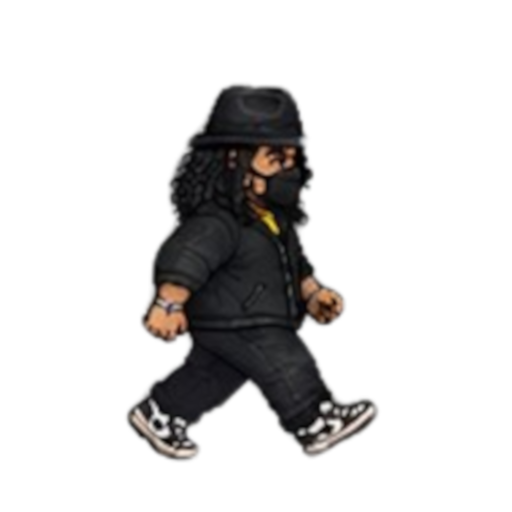
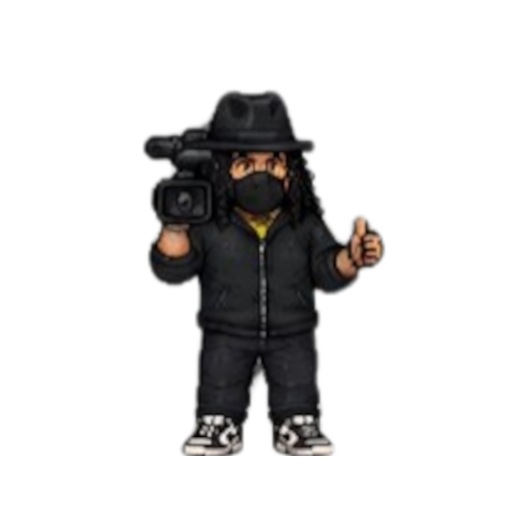
Update campaign 3/9

Changed region(s): [[0.25, 0.1562, 0.75, 0.9062], [0.4375, 0.625, 0.4688, 0.6562]]

diff --git a/PolitecnicoOpenWorld/app/src/main/java/ovh/gabrielhuav/pow/domain/models/ai/CampaignEscortPolice.kt b/PolitecnicoOpenWorld/app/src/main/java/ovh/gabrielhuav/pow/domain/models/ai/CampaignEscortPolice.kt
@@ -1,0 +1,98 @@
+package ovh.gabrielhuav.pow.domain.models.ai
+
+import org.osmdroid.util.GeoPoint
+import ovh.gabrielhuav.pow.domain.models.Npc
+import ovh.gabrielhuav.pow.domain.models.NpcType
+import java.util.concurrent.ConcurrentHashMap
+import kotlin.math.atan2
+import kotlin.math.cos
+import kotlin.math.sin
+import kotlin.math.sqrt
+
+/**
+ * POLICÍA DE LA CAMPAÑA (Modo Historia · Misión 1, escolta a la ESCOM).
+ *
+ * Kotlin puro (como [PoliceManager] y [PrankedyManager]). Es una clase **independiente** del
+ * sistema de nivel de búsqueda del MUNDO LIBRE ([PoliceManager] / `runPoliceTick`) para que sus
+ * comportamientos NO choquen: aquí no hay estrellas dinámicas, ni patrullas, ni disparos, ni
+ * carjack. Son **2 policías a PIE** que **SIGUEN al jugador a una distancia considerable y
+ * DESPACIO** (escolta narrativa). No atacan; solo acompañan/persiguen a pie.
+ *
+ * Todo su movimiento se ajusta (snap) a la calle vía el lambda `snap` que pasa el ViewModel,
+ * igual que el resto de entidades, así no atraviesan edificios.
+ */
+class CampaignEscortPolice {
+
+    companion object {
+        const val COP_COUNT = 2
+        const val SPAWN_BEHIND = 0.0006     // ~65 m: aparecen DETRÁS del jugador
+        const val FOLLOW_DISTANCE = 0.00045 // ~50 m: distancia que MANTIENEN (no se acercan más)
+        const val RESUME_BAND = 0.00012     // ~13 m de histéresis: evita el tembleque en el borde
+        const val COP_SPEED = 0.0000020     // por tick: LENTOS (no te alcanzan a pie)
+    }
+
+    // IDs FIJOS → como mucho 2 unidades; nunca se multiplican.
+    private val units = ConcurrentHashMap<String, Npc>()
+
+    fun activeUnits(): List<Npc> = units.values.toList()
+    fun isActive(): Boolean = units.isNotEmpty()
+    fun clear() { units.clear() }
+
+    /** Crea los 2 policías DETRÁS del jugador (en abanico), sobre la calle si hay `snap`. */
+    fun spawn(playerLat: Double, playerLon: Double, snap: ((GeoPoint) -> GeoPoint)? = null) {
+        units.clear()
+        for (i in 0 until COP_COUNT) {
+            // Detrás del jugador (dirección PI), abierto en abanico para que no se solapen.
+            val ang = Math.PI + (if (i == 0) -0.30 else 0.30)
+            val raw = GeoPoint(
+                playerLat + sin(ang) * SPAWN_BEHIND,
+                playerLon + cos(ang) * SPAWN_BEHIND
+            )
+            val placed = snap?.invoke(raw) ?: raw
+            val id = "CAMPAIGN_COP_$i"
+            units[id] = Npc(
+                id = id,
+                type = NpcType.POLICE_COP,
+                location = placed,
+                speed = COP_SPEED,
+                isRemote = false,
+                isMoving = true,
+                policeDisembarked = true,   // ya está "a pie" (no pertenece a ninguna patrulla)
+                policeCanShoot = false       // NUNCA dispara: es escolta narrativa
+            )
+        }
+    }
+
+    /**
+     * Un ciclo de seguimiento. Cada policía:
+     *  - si está MÁS LEJOS que [FOLLOW_DISTANCE]+banda → avanza DESPACIO hacia el jugador (snap a calle);
+     *  - si ya está dentro de la distancia → se queda quieto (MANTIENE la distancia considerable).
+     */
+    fun tick(playerLat: Double, playerLon: Double, snap: ((GeoPoint) -> GeoPoint)? = null) {
+        for (u in units.values.toList()) {
+            val d = dist(u.location.latitude, u.location.longitude, playerLat, playerLon)
+            if (d > FOLLOW_DISTANCE + RESUME_BAND) {
+                val a = atan2(playerLat - u.location.latitude, playerLon - u.location.longitude)
+                val raw = GeoPoint(
+                    u.location.latitude + sin(a) * COP_SPEED,
+                    u.location.longitude + cos(a) * COP_SPEED
+                )
+                val placed = snap?.invoke(raw) ?: raw
+                val mLat = placed.latitude - u.location.latitude
+                val mLon = placed.longitude - u.location.longitude
+                val moved = mLat * mLat + mLon * mLon > 1e-14
+                val rot = if (moved) (-Math.toDegrees(atan2(mLat, mLon)).toFloat() + 360f) % 360f
+                          else (-Math.toDegrees(a).toFloat() + 360f) % 360f
+                val facing = if (moved) mLon >= 0 else cos(a) >= 0
+                units[u.id] = u.copy(location = placed, rotationAngle = rot, facingRight = facing, isMoving = true)
+            } else if (u.isMoving) {
+                units[u.id] = u.copy(isMoving = false)
+            }
+        }
+    }
+
+    private fun dist(lat1: Double, lon1: Double, lat2: Double, lon2: Double): Double {
+        val dLat = lat1 - lat2; val dLon = lon1 - lon2
+        return sqrt(dLat * dLat + dLon * dLon)
+    }
+}

diff --git a/PolitecnicoOpenWorld/app/src/main/java/ovh/gabrielhuav/pow/features/map_exterior/viewmodel/WorldMapCampaignPolice.kt b/PolitecnicoOpenWorld/app/src/main/java/ovh/gabrielhuav/pow/features/map_exterior/viewmodel/WorldMapCampaignPolice.kt
@@ -1,0 +1,56 @@
+package ovh.gabrielhuav.pow.features.map_exterior.viewmodel
+
+import kotlinx.coroutines.flow.update
+import org.osmdroid.util.GeoPoint
+import ovh.gabrielhuav.pow.domain.models.MissionCatalog
+
+// ─────────────────────────────────────────────────────────────────────────────
+// MODO HISTORIA · POLICÍA DE LA MISIÓN 1 (ESCOLTA A LA ESCOM)
+//
+// Lógica SEPARADA del sistema de búsqueda del MUNDO LIBRE (PoliceManager / WorldMapWanted.kt)
+// para que los comportamientos de la campaña NO choquen con los del mundo libre. Aquí solo hay
+// 2 policías A PIE que SIGUEN al jugador a una distancia considerable y despacio, con 1★ de HUD.
+// El estado (campaignEscortPolice, campaignPoliceActivated) vive en el ViewModel.
+// ─────────────────────────────────────────────────────────────────────────────
+
+// ¿Estamos en la misión de escolta (Misión 1) y aún sin cumplir? Solo entonces aparece esta policía.
+internal fun WorldMapViewModel.isCampaignEscortActive(): Boolean {
+    if (!inCampaign) return false
+    val obj = _uiState.value.currentObjective ?: return false
+    return obj.id == MissionCatalog.ESCOLTAR_PRANKEDY.id && !_uiState.value.objectiveDone
+}
+
+// Tick de la policía de la campaña (lo llama el game loop SOLO si isCampaignEscortActive()).
+// Spawnea 2 policías detrás del jugador una vez, fija 1★ y los hace seguir a pie, despacio.
+internal fun WorldMapViewModel.runCampaignEscortTick(playerLoc: GeoPoint) {
+    // Snap a calle (salvo en zona libre del campus: ESCOM/ENCB), igual que el resto de entidades.
+    val snap: (GeoPoint) -> GeoPoint = { p ->
+        val freeZone = isFreeMovementZone(playerLoc.latitude, playerLoc.longitude)
+        if (!freeZone && _uiState.value.isRoadNetworkReady) getNearestPointOnNetwork(p) else p
+    }
+
+    if (!campaignPoliceActivated) {
+        campaignPoliceActivated = true
+        campaignEscortPolice.spawn(playerLoc.latitude, playerLoc.longitude, snap)
+    }
+
+    campaignEscortPolice.tick(playerLoc.latitude, playerLoc.longitude, snap)
+
+    // 1 ESTRELLA mientras dura la escolta (solo indicador; NO invoca al sistema de búsqueda real,
+    // que está desactivado durante la misión —el game loop no llama a runPoliceTick aquí—).
+    if (_uiState.value.wantedLevel != 1) _uiState.update { it.copy(wantedLevel = 1) }
+
+    updateNpcsState()
+}
+
+// Limpia la policía de la campaña (misión cumplida o al salir de la campaña). Idempotente.
+internal fun WorldMapViewModel.clearCampaignEscort() {
+    val wasActive = campaignEscortPolice.isActive()
+    campaignPoliceActivated = false
+    if (wasActive) {
+        campaignEscortPolice.clear()
+        // Quita la estrella de la escolta (no había nivel de búsqueda real que conservar).
+        _uiState.update { it.copy(wantedLevel = 0) }
+        updateNpcsState()
+    }
+}

diff --git a/PolitecnicoOpenWorld/app/src/main/java/ovh/gabrielhuav/pow/MainActivity.kt b/PolitecnicoOpenWorld/app/src/main/java/ovh/gabrielhuav/pow/MainActivity.kt
@@ -222,6 +222,10 @@ class MainActivity : ComponentActivity() {
                                     // así que NO se auto-guarda al salir.
                                     worldMapViewModel.inCampaign = false
                                     worldMapViewModel.currentInteriorRoomId = null
+                                    // La música es exclusiva de la misión: en MUNDO LIBRE no debe sonar.
+                                    ovh.gabrielhuav.pow.features.audio.SoundManager.getInstance(this@MainActivity).apply {
+                                        stopInvestigarMusic(); stopLugarSeguroMusic(); stopMainMusic()
+                                    }
                                     if (isMultiplayer && !playerName.isNullOrBlank()) {
                                         // Usando la variable de entorno de Gradle (BuildConfig)
                                         worldMapViewModel.connectToMultiplayer(BuildConfig.MULTIPLAYER_SERVER_URL, playerName)
@@ -254,13 +258,27 @@ class MainActivity : ComponentActivity() {
                             // partida, restaura el estado completo (posición/vida/buscado/vehículo/
                             // skin/NPCs/objetivo) y entra al mundo.
                             var showLoadDialog by remember { mutableStateOf(false) }
+                            // COMENZAR: antes de la intro se elige el SLOT MANUAL donde quedará la
+                            // partida nueva (los 2 slots de auto-guardado salen deshabilitados).
+                            var newGameSchool by remember { mutableStateOf<ovh.gabrielhuav.pow.domain.models.CampaignSchool?>(null) }
                             StoryModeScreen(
-                                onStartCampaign = { school ->
-                                    navController.navigate("story_intro/${school.id}")
-                                },
+                                onStartCampaign = { school -> newGameSchool = school },
                                 onLoadCampaign = { showLoadDialog = true },
                                 onBack = { navController.popBackStack() }
                             )
+                            newGameSchool?.let { school ->
+                                ovh.gabrielhuav.pow.features.main_menu.ui.SaveSlotsDialog(
+                                    title = "Nueva partida · elige slot",
+                                    summariesProvider = { SaveGameRepository(this@MainActivity).summaries() },
+                                    mode = ovh.gabrielhuav.pow.features.main_menu.ui.SaveSlotsMode.SAVE,
+                                    onDelete = { slot -> SaveGameRepository(this@MainActivity).clear(slot) },
+                                    onPick = { slot ->
+                                        newGameSchool = null
+                                        navController.navigate("story_intro/${school.id}?slot=$slot")
+                                    },
+                                    onDismiss = { newGameSchool = null }
+                                )
+                            }
                             if (showLoadDialog) {
                                 ovh.gabrielhuav.pow.features.main_menu.ui.SaveSlotsDialog(
                                     title = "Cargar partida",
@@ -292,23 +310,28 @@ class MainActivity : ComponentActivity() {
                         // Placeholder narrativo. Al INICIAR, GUARDA la partida (para que
                         // "CARGAR PARTIDA" funcione luego) y arranca el mundo en la escuela.
                         composable(
-                            route = "story_intro/{schoolId}",
+                            route = "story_intro/{schoolId}?slot={slot}",
                             arguments = listOf(
                                 androidx.navigation.navArgument("schoolId") {
                                     type = androidx.navigation.NavType.StringType
+                                },
+                                androidx.navigation.navArgument("slot") {
+                                    type = androidx.navigation.NavType.IntType
+                                    defaultValue = -1   // -1 = no se eligió slot manual
                                 }
                             )
                         ) { backStackEntry ->
                             val schoolId = backStackEntry.arguments?.getString("schoolId")
                             val school = SchoolCatalog.schools.firstOrNull { it.id == schoolId }
                                 ?: SchoolCatalog.default
+                            // Slot MANUAL elegido al COMENZAR (donde quedará esta partida nueva).
+                            val chosenSlot = backStackEntry.arguments?.getInt("slot") ?: -1
                             StoryIntroScreen(
                                 school = school,
                                 onBegin = {
-                                    // COMENZAR partida NUEVA: el AUTO-GUARDADO se encarga solo (escribe
-                                    // en los 2 slots de auto-guardado reservados, rotando). Limpiamos esos
-                                    // 2 slots para empezar la campaña fresca; los 5 slots MANUALES quedan
-                                    // intactos (se usan con "Guardar partida"). Fija la Misión 1.
+                                    // COMENZAR partida NUEVA: el AUTO-GUARDADO usa los 2 slots reservados
+                                    // (rotando). Limpiamos esos 2 para empezar fresco. Además, si el jugador
+                                    // eligió un SLOT MANUAL, guardamos ahí la partida inicial. Fija la Misión 1.
                                     campaignRepository.saveCampaign(school.id)
                                     SaveGameRepository(this@MainActivity).clearAutoSlots()
                                     worldMapViewModel.campaignSchoolId = school.id
@@ -317,6 +340,11 @@ class MainActivity : ComponentActivity() {
                                     worldMapViewModel.disconnectFromMultiplayer()
                                     worldMapViewModel.setStorySpawn(school.latitude, school.longitude)
                                     worldMapViewModel.setCampaignObjective(ovh.gabrielhuav.pow.domain.models.MissionCatalog.first)
+                                    // Guardado MANUAL inicial en el slot elegido (para que "CARGAR PARTIDA"
+                                    // lo muestre desde ya). Los autoguardados posteriores van a los slots auto.
+                                    if (chosenSlot in SaveGameRepository.MANUAL_SLOTS) {
+                                        worldMapViewModel.saveGame(this@MainActivity, chosenSlot)
+                                    }
                                     // Tras el último panel de la intro (IntroPOW8), la transición
                                     // entra al PRIMER interior de la campaña: el Lobby de la ENCB.
                                     // Inicia la música de investigar.

diff --git a/PolitecnicoOpenWorld/app/src/main/java/ovh/gabrielhuav/pow/features/map_exterior/viewmodel/WorldMapViewModel.kt b/PolitecnicoOpenWorld/app/src/main/java/ovh/gabrielhuav/pow/features/map_exterior/viewmodel/WorldMapViewModel.kt
@@ -256,6 +256,13 @@ class WorldMapViewModel(
     internal val policeManager = ovh.gabrielhuav.pow.domain.models.ai.PoliceManager()
     internal val MAX_WANTED_LEVEL = 5
 
+    // ─── POLICÍA DE LA CAMPAÑA (Modo Historia · Misión 1) ────────────────────
+    // SEPARADA del sistema de búsqueda del mundo libre para que no choquen los comportamientos.
+    // Son 2 policías a pie que siguen al jugador a distancia (ver WorldMapCampaignPolice.kt).
+    internal val campaignEscortPolice = ovh.gabrielhuav.pow.domain.models.ai.CampaignEscortPolice()
+    // Spawn diferido (una vez por activación); setStorySpawn la re-arma en cada entrada de campaña.
+    internal var campaignPoliceActivated = false
+
     // ─── PRANKEDY (NPC compañero) ─────────────────────────────────────────────
     internal val prankedyManager = ovh.gabrielhuav.pow.domain.models.ai.PrankedyManager()
     // Policía REMOTA (de otros jugadores): solo se renderiza, no se simula. id -> (npc, lastSeenMs).
@@ -635,10 +642,20 @@ class WorldMapViewModel(
                             }
                         }
 
-                        // POLICÍA: nivel de búsqueda (spawn de patrullas, persecución,
-                        // golpes/disparos) y decaimiento. La simula el dueño del nivel.
-                        if (_uiState.value.isRoadNetworkReady && !_uiState.value.showWastedScreen) {
-                            runPoliceTick(location)
+                        // POLICÍA. Durante la MISIÓN 1 (escolta) corre la policía de la CAMPAÑA
+                        // (clase aparte: 2 a pie, siguen a distancia, 1★) y NO el sistema de
+                        // búsqueda del mundo libre, para que no choquen. Fuera de la escolta corre
+                        // la policía normal del mundo libre. Al terminar la escolta (o salir de la
+                        // campaña) se limpia la policía de campaña.
+                        if (isCampaignEscortActive()) {
+                            if (_uiState.value.isRoadNetworkReady && !_uiState.value.showWastedScreen) {
+                                runCampaignEscortTick(location)
+                            }
+                        } else {
+                            if (campaignPoliceActivated) clearCampaignEscort()
+                            if (_uiState.value.isRoadNetworkReady && !_uiState.value.showWastedScreen) {
+                                runPoliceTick(location)
+                            }
                         }
 
                         maybeRefetchRoadNetwork(location)
@@ -1403,6 +1420,8 @@ class WorldMapViewModel(
         // re-descarga (gateMapDownloadAfterTeleport NO está gateado por mapPrepStarted).
         inCampaign = true            // sesión de campaña → habilita el auto-guardado al salir
         prankedyCompanionActivated = false  // re-arma el encendido del acompañante en la ENCB
+        campaignPoliceActivated = false     // re-arma la policía de escolta de la Misión 1
+        campaignEscortPolice.clear()
         npcWarmupCycles = 0          // re-arma el warm-up de NPCs del gate de carga
         lastNetworkFetchLocation = null  // fuerza el re-fetch de calles alrededor de la escuela
         lastFetchAttemptMs = 0L

diff --git a/PolitecnicoOpenWorld/app/src/main/java/ovh/gabrielhuav/pow/domain/models/CampaignMission.kt b/PolitecnicoOpenWorld/app/src/main/java/ovh/gabrielhuav/pow/domain/models/CampaignMission.kt
@@ -24,16 +24,17 @@ object MissionCatalog {
         targetLon = -99.148900
     )
 
-    // Escolta: Prankedy te acompaña (fase HIRED) y debes llevarlo a un lugar seguro. Solo se
-    // activa en campaña y en el vecindario de la ENCB (ver WorldMapPrankedy.maybeSpawnPrankedyCompanion).
-    // arriveRadiusMeters=0 → el widget NO lo auto-marca como cumplido (cierre narrativo, no por llegada).
+    // Escolta: Prankedy te acompaña (fase HIRED) y debes llevarlo a la ESCOM (el "lugar seguro").
+    // Solo se activa en campaña y en el vecindario de la ENCB (ver WorldMapPrankedy.maybeSpawnPrankedyCompanion).
+    // El destino es la ESCOM (mismo punto donde se oculta la línea GPS y para la música); al
+    // entrar en arriveRadiusMeters se marca cumplido.
     val ESCOLTAR_PRANKEDY = CampaignObjective(
         id = "escoltar_prankedy",
-        title = "Lleva a un lugar seguro a Prankedy",
-        description = "Protege a Prankedy y llévalo a un lugar seguro.",
-        targetLat = 19.5001588,
-        targetLon = -99.1450298,
-        arriveRadiusMeters = 0.0
+        title = "Lleva a Prankedy a la ESCOM",
+        description = "Protege a Prankedy y escóltalo hasta la ESCOM (lugar seguro).",
+        targetLat = 19.504603,
+        targetLon = -99.145985,
+        arriveRadiusMeters = 80.0
     )
 
     private val all = listOf(IR_ENCB, ESCOLTAR_PRANKEDY)

diff --git a/PolitecnicoOpenWorld/app/src/main/java/ovh/gabrielhuav/pow/domain/models/zombie/ZombieRoomCatalog.kt b/PolitecnicoOpenWorld/app/src/main/java/ovh/gabrielhuav/pow/domain/models/zombie/ZombieRoomCatalog.kt
@@ -162,11 +162,11 @@ object ZombieRoomCatalog {
         // dimensiones reales del asset.
         // Cada sala lleva un waypoint de AVANCE (→ siguiente) y, salvo el lobby (entrada),
         // un waypoint de RETROCESO (← anterior), para poder ir y venir por la cadena.
-        // ENCB_salon1: el fondo deja ver al jugador diminuto → playerScaleMul = 3f.
+        // salon1/lab1/lab2: sus fondos dejan ver al jugador diminuto → playerScaleMul = 3f.
         add(encbStoryRoom(ENCB_LOBBY_ID,  "Lobby ENCB",  "INTERIORS/ENCB/ENCB_lobby.webp",  nextTargetId = ENCB_SALON1_ID))
         add(encbStoryRoom(ENCB_SALON1_ID, "Salón ENCB",  "INTERIORS/ENCB/ENCB_salon1.webp", nextTargetId = ENCB_LAB1_ID, prevTargetId = ENCB_LOBBY_ID, playerScaleMul = 3f))
-        add(encbStoryRoom(ENCB_LAB1_ID,   "Lab. ENCB 1", "INTERIORS/ENCB/ENCB_lab1.webp",   nextTargetId = ENCB_LAB2_ID, prevTargetId = ENCB_SALON1_ID))
-        add(encbStoryRoom(ENCB_LAB2_ID,   "Lab. ENCB 2", "INTERIORS/ENCB/ENCB_lab2.webp",   nextTargetId = EXIT_TO_STORY_OUTRO, prevTargetId = ENCB_LAB1_ID))
+        add(encbStoryRoom(ENCB_LAB1_ID,   "Lab. ENCB 1", "INTERIORS/ENCB/ENCB_lab1.webp",   nextTargetId = ENCB_LAB2_ID, prevTargetId = ENCB_SALON1_ID, playerScaleMul = 3f))
+        add(encbStoryRoom(ENCB_LAB2_ID,   "Lab. ENCB 2", "INTERIORS/ENCB/ENCB_lab2.webp",   nextTargetId = EXIT_TO_STORY_OUTRO, prevTargetId = ENCB_LAB1_ID, playerScaleMul = 3f))
     }
 
     // ─── MODO HISTORIA ENCB: fábrica de una sala de la cadena lineal ──────────

diff --git a/PolitecnicoOpenWorld/app/src/main/java/ovh/gabrielhuav/pow/features/map_exterior/viewmodel/WorldMapMultiplayer.kt b/PolitecnicoOpenWorld/app/src/main/java/ovh/gabrielhuav/pow/features/map_exterior/viewmodel/WorldMapMultiplayer.kt
@@ -283,7 +283,9 @@ internal fun WorldMapViewModel.addRemoteEntity(remote: MultiplayerNpc) {
     }
 
 internal fun WorldMapViewModel.updateNpcsState() {
-        // Civiles/jugadores remotos + policía propia (simulada) + policía remota (solo render).
-        val combined = remoteEntities.values + policeManager.activeUnits() + remotePolice.values
+        // Civiles/jugadores remotos + policía propia (simulada) + policía remota (solo render)
+        // + policía de la CAMPAÑA (escolta de la Misión 1, clase aparte; ver WorldMapCampaignPolice.kt).
+        val combined = remoteEntities.values + policeManager.activeUnits() +
+            remotePolice.values + campaignEscortPolice.activeUnits()
         _uiState.update { it.copy(npcs = combined.toList()) }
     }

diff --git a/PolitecnicoOpenWorld/app/src/main/java/ovh/gabrielhuav/pow/features/map_exterior/viewmodel/WorldMapPrankedy.kt b/PolitecnicoOpenWorld/app/src/main/java/ovh/gabrielhuav/pow/features/map_exterior/viewmodel/WorldMapPrankedy.kt
@@ -76,6 +76,11 @@ internal fun WorldMapViewModel.maybeHideCampaignRouteNearEscom(playerLoc: GeoPoi
     val dLon = playerLoc.longitude - ESCOM_LON
     if (kotlin.math.sqrt(dLat * dLat + dLon * dLon) <= ESCOM_ARRIVE_DEG) {
         _uiState.update { it.copy(campaignRouteWaypoints = emptyList()) }
+        // Llegaste al "lugar seguro": la misión de escolta termina. La música es EXCLUSIVA de
+        // la misión, así que aquí deja de sonar (no debe seguir en el mundo libre tras cumplirla).
+        soundManager.stopLugarSeguroMusic()
+        soundManager.stopInvestigarMusic()
+        soundManager.stopMainMusic()
     }
 }
 

diff --git a/PolitecnicoOpenWorld/app/src/main/java/ovh/gabrielhuav/pow/features/map_exterior/viewmodel/WorldMapSaveGame.kt b/PolitecnicoOpenWorld/app/src/main/java/ovh/gabrielhuav/pow/features/map_exterior/viewmodel/WorldMapSaveGame.kt
@@ -135,6 +135,10 @@ fun WorldMapViewModel.checkObjectiveProgress(location: GeoPoint) {
     val s = _uiState.value
     val obj = s.currentObjective ?: return
     if (s.objectiveDone) return
+    // Objetivos con radio <= 0 (p. ej. ESCOLTAR_PRANKEDY) NO se cumplen por llegada: su cierre
+    // es NARRATIVO. Sin esta guarda, como su destino coincide con el spawn de la ENCB, la
+    // distancia daba 0 ( <= 0 ) y se marcaba "cumplido" nada más empezar. Ver CampaignMission.kt.
+    if (obj.arriveRadiusMeters <= 0.0) return
     val dLat = location.latitude - obj.targetLat
     val dLon = location.longitude - obj.targetLon
     // Conversión grados→metros aprox. (1° lat ≈ 111_320 m; lon corregido por latitud).